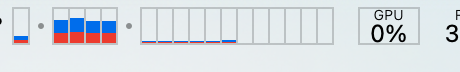
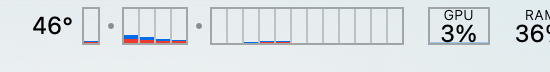
Darken the CPU and GPU outlines and keep the core dividers pale

Changed region(s): [[0.0, 0.0833, 1.0, 0.6389], [0.9435, 0.1389, 1.0, 0.2778]]

diff --git a/Tests/CoreBoxLayout.swift b/Tests/CoreBoxLayout.swift
@@ -131,7 +131,7 @@ class MiniGaugeTests: XCTestCase {
             let alpha: (Int, Int) -> CGFloat = { rep.colorAt(x: $0, y: $1)?.alphaComponent ?? 0 }
             let x = Int(scale)
             
-            XCTAssertEqual(alpha(0, rep.pixelsHigh / 2), 0.18, accuracy: 0.02, "outline at \(scale)x")
+            XCTAssertEqual(alpha(0, rep.pixelsHigh / 2), CoreBoxLayout.outlineAlpha, accuracy: 0.02, "outline at \(scale)x")
             XCTAssertEqual(alpha(x, rep.pixelsHigh - Int(3 * scale)), 0.3, accuracy: 0.03, "fill at the bottom at \(scale)x")
             XCTAssertEqual(alpha(x, Int(3 * scale)), 0, accuracy: 0.02, "empty at the top at \(scale)x")
         }
@@ -343,7 +343,7 @@ class CoreBoxLayoutTests: XCTestCase {
             
             XCTAssertEqual(alpha(shared - 1), 0, accuracy: 0.02, "inside the first box at \(scale)x")
             for x in shared..<(shared + stroke) {
-                XCTAssertEqual(alpha(x), 0.18, accuracy: 0.02, "shared line at \(scale)x")
+                XCTAssertEqual(alpha(x), CoreBoxLayout.dividerAlpha, accuracy: 0.02, "shared line at \(scale)x")
             }
             XCTAssertEqual(alpha(shared + stroke), 0, accuracy: 0.02, "inside the second box at \(scale)x")
         }

diff --git a/Kit/Widgets/CoreBoxLayout.swift b/Kit/Widgets/CoreBoxLayout.swift
@@ -10,7 +10,8 @@ import Foundation
 public struct CoreBoxLayout {
     public static let boxHeight: CGFloat = 19
     public static let outlineWidth: CGFloat = 1
-    public static let outlineAlpha: CGFloat = 0.18
+    public static let outlineAlpha: CGFloat = 0.3
+    public static let dividerAlpha: CGFloat = 0.18
     public static let separatorSize: CGFloat = 3
     public static let minimumBarWidth: CGFloat = 3
     public static let minimumGap: CGFloat = 1

diff --git a/Kit/Widgets/BarChart.swift b/Kit/Widgets/BarChart.swift
@@ -376,7 +376,7 @@ public class BarChart: WidgetWrapper {
         
         let dividers = NSBezierPath()
         layout.dividers.forEach { dividers.appendRect($0.offsetBy(dx: origin, dy: 0)) }
-        outlineColor.setFill()
+        lineColor.withAlphaComponent(CoreBoxLayout.dividerAlpha).setFill()
         dividers.fill()
         
         lineColor.withAlphaComponent(0.4).setFill()
